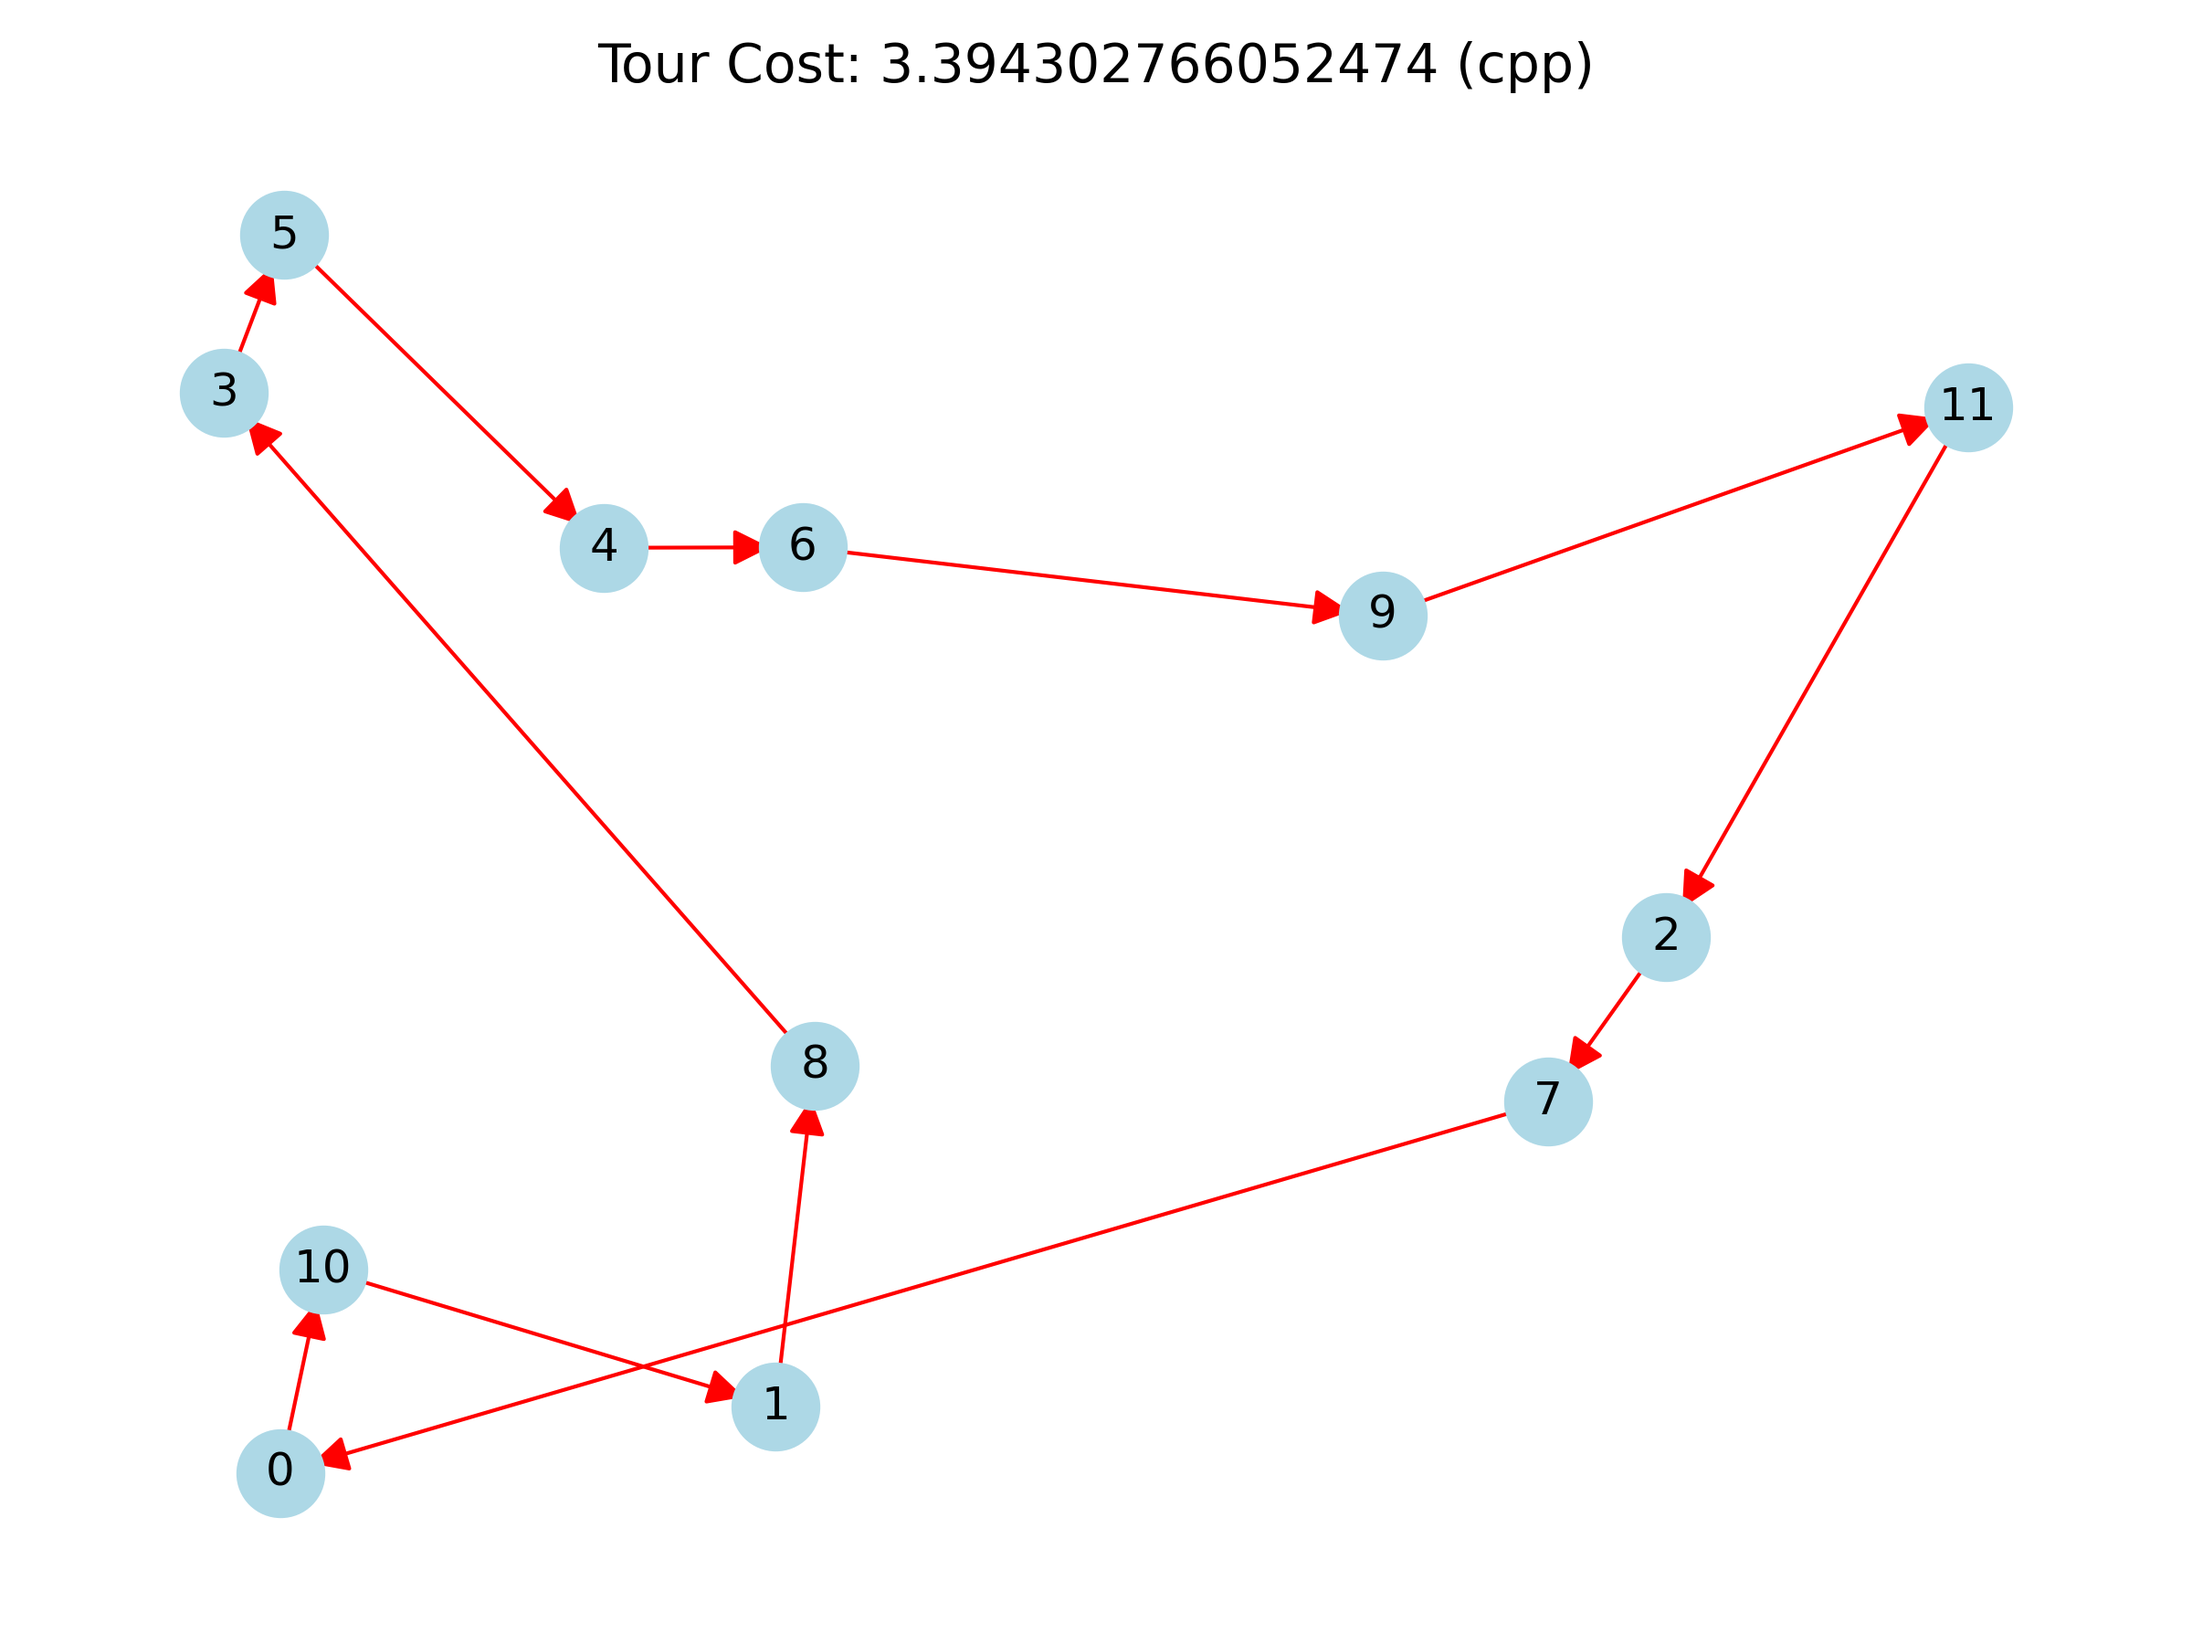
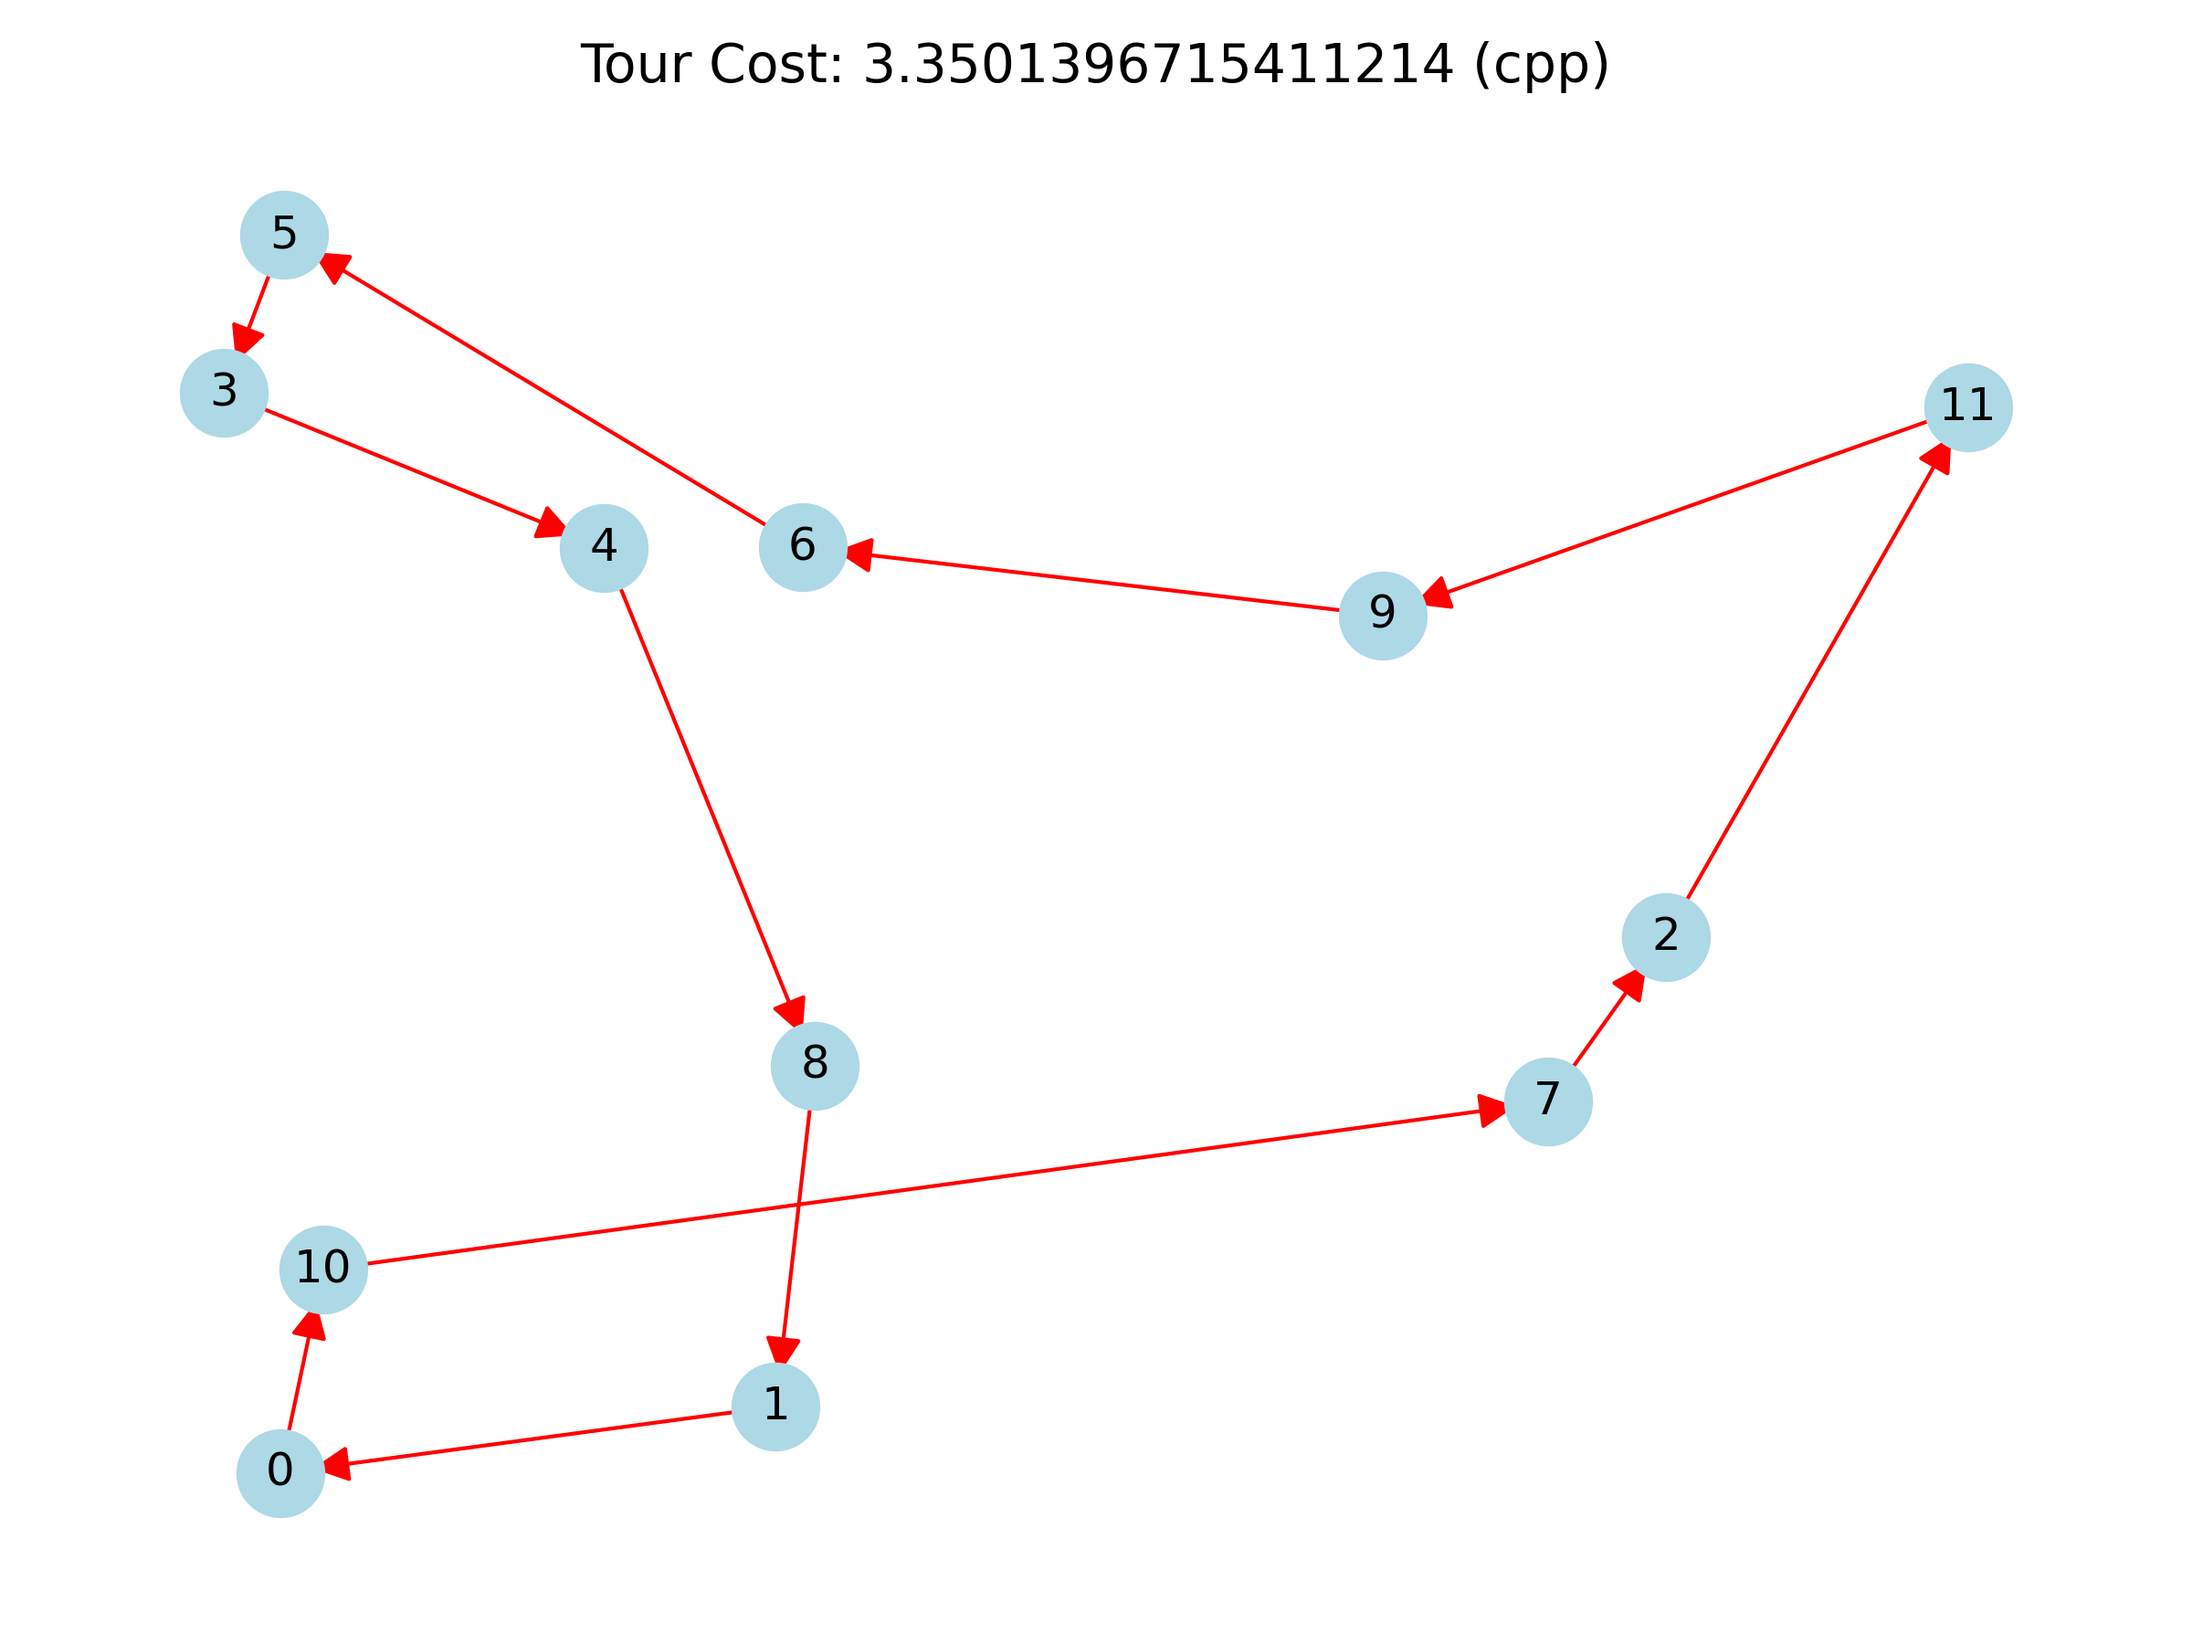
reduced indents by changing if statement in cpp code and changed another int to int8_t

diff --git a/cpp/sim_anneal/src/main.cpp b/cpp/sim_anneal/src/main.cpp
@@ -12,14 +12,13 @@ void consider_neighbor_states(const Dense_qubo &model, Solution_state &sol,
    *    beta: 1/temperature for iteration.
    *   	rng: Random number generator.
    */
-  int term_sign;
+  int_fast8_t term_sign;
 
   for (int i = 0; i < model.n; ++i) {
     // Accept or decline state obtained by flipping sping of ith node by the
     // Metropolis-Hasting rule.
-    if ((sol.dE[i] > 0.0) && (rng.getprob() >= std::exp(-sol.dE[i] * beta))) {
+    if ((sol.dE[i] > 0.0) && (rng.getprob() >= std::exp(-sol.dE[i] * beta)))
       continue;
-    }
     sol.x[i] = 1 - sol.x[i];      // flip of spin of node
     sol.E += sol.dE[i];           // update state energy
     term_sign = 2 * sol.x[i] - 1; // for updating delta energies
@@ -30,7 +29,7 @@ void consider_neighbor_states(const Dense_qubo &model, Solution_state &sol,
       // Given jth delta energy: 2(1-2x[j])Q[j]x^T + Q[j,j] computed prior
       // to flipping the spin of node i, it suffices to add the change to
       // the term x[i] * x[j]
-      sol.dE[j] += term_sign * ((2 - 4 * sol.x[j]) * model.Q[i * model.n + j]);
+      sol.dE[j] += term_sign * (2 - 4 * sol.x[j]) * model.Q[i * model.n + j];
     }
     sol.dE[i] *= -1.0; // re-flipping spin of node i simply flips sign
   }

diff --git a/problems/tsp/generate_tsp_instance.py b/problems/tsp/generate_tsp_instance.py
@@ -26,7 +26,7 @@ def main():
     np.random.seed(seed=21)  # seed random number generator
 
     n = 12  # number of cities
-    num_res = 1000  # number of restarts
+    num_res = 10000  # number of restarts
     num_iters = 10000  # number of iterations
     run_data = np.array([n * n, num_res, num_iters])
 
